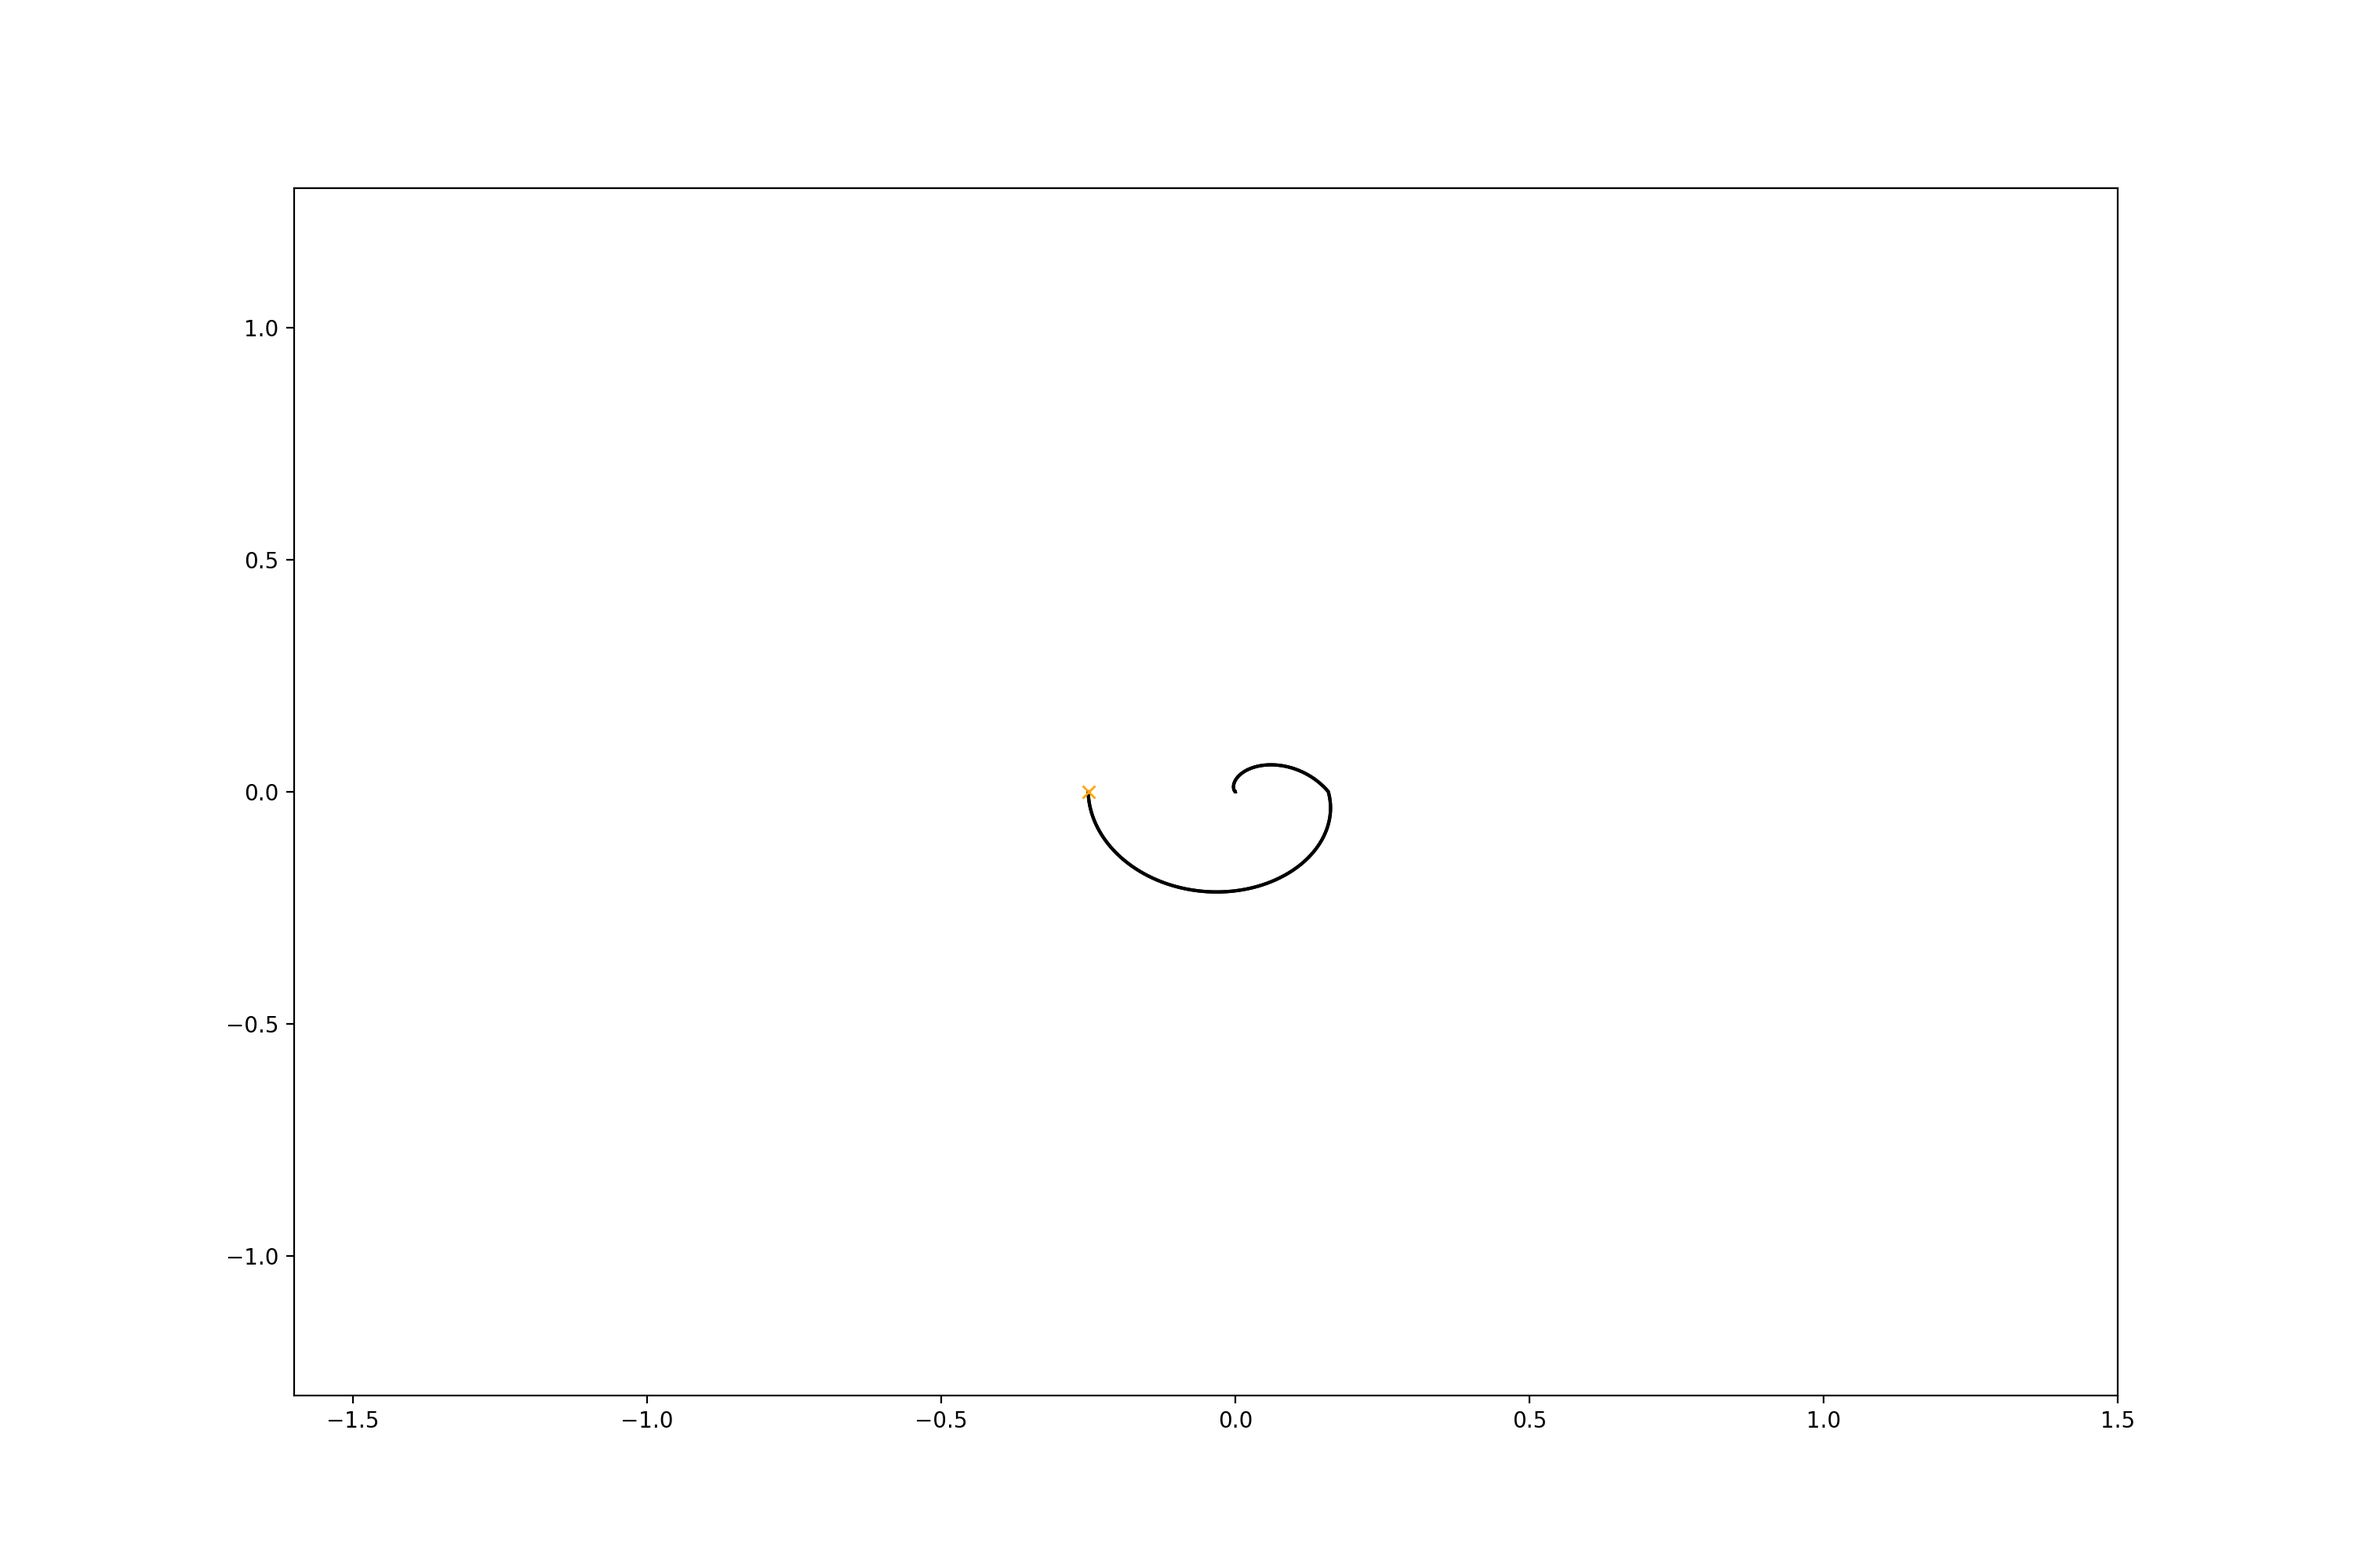
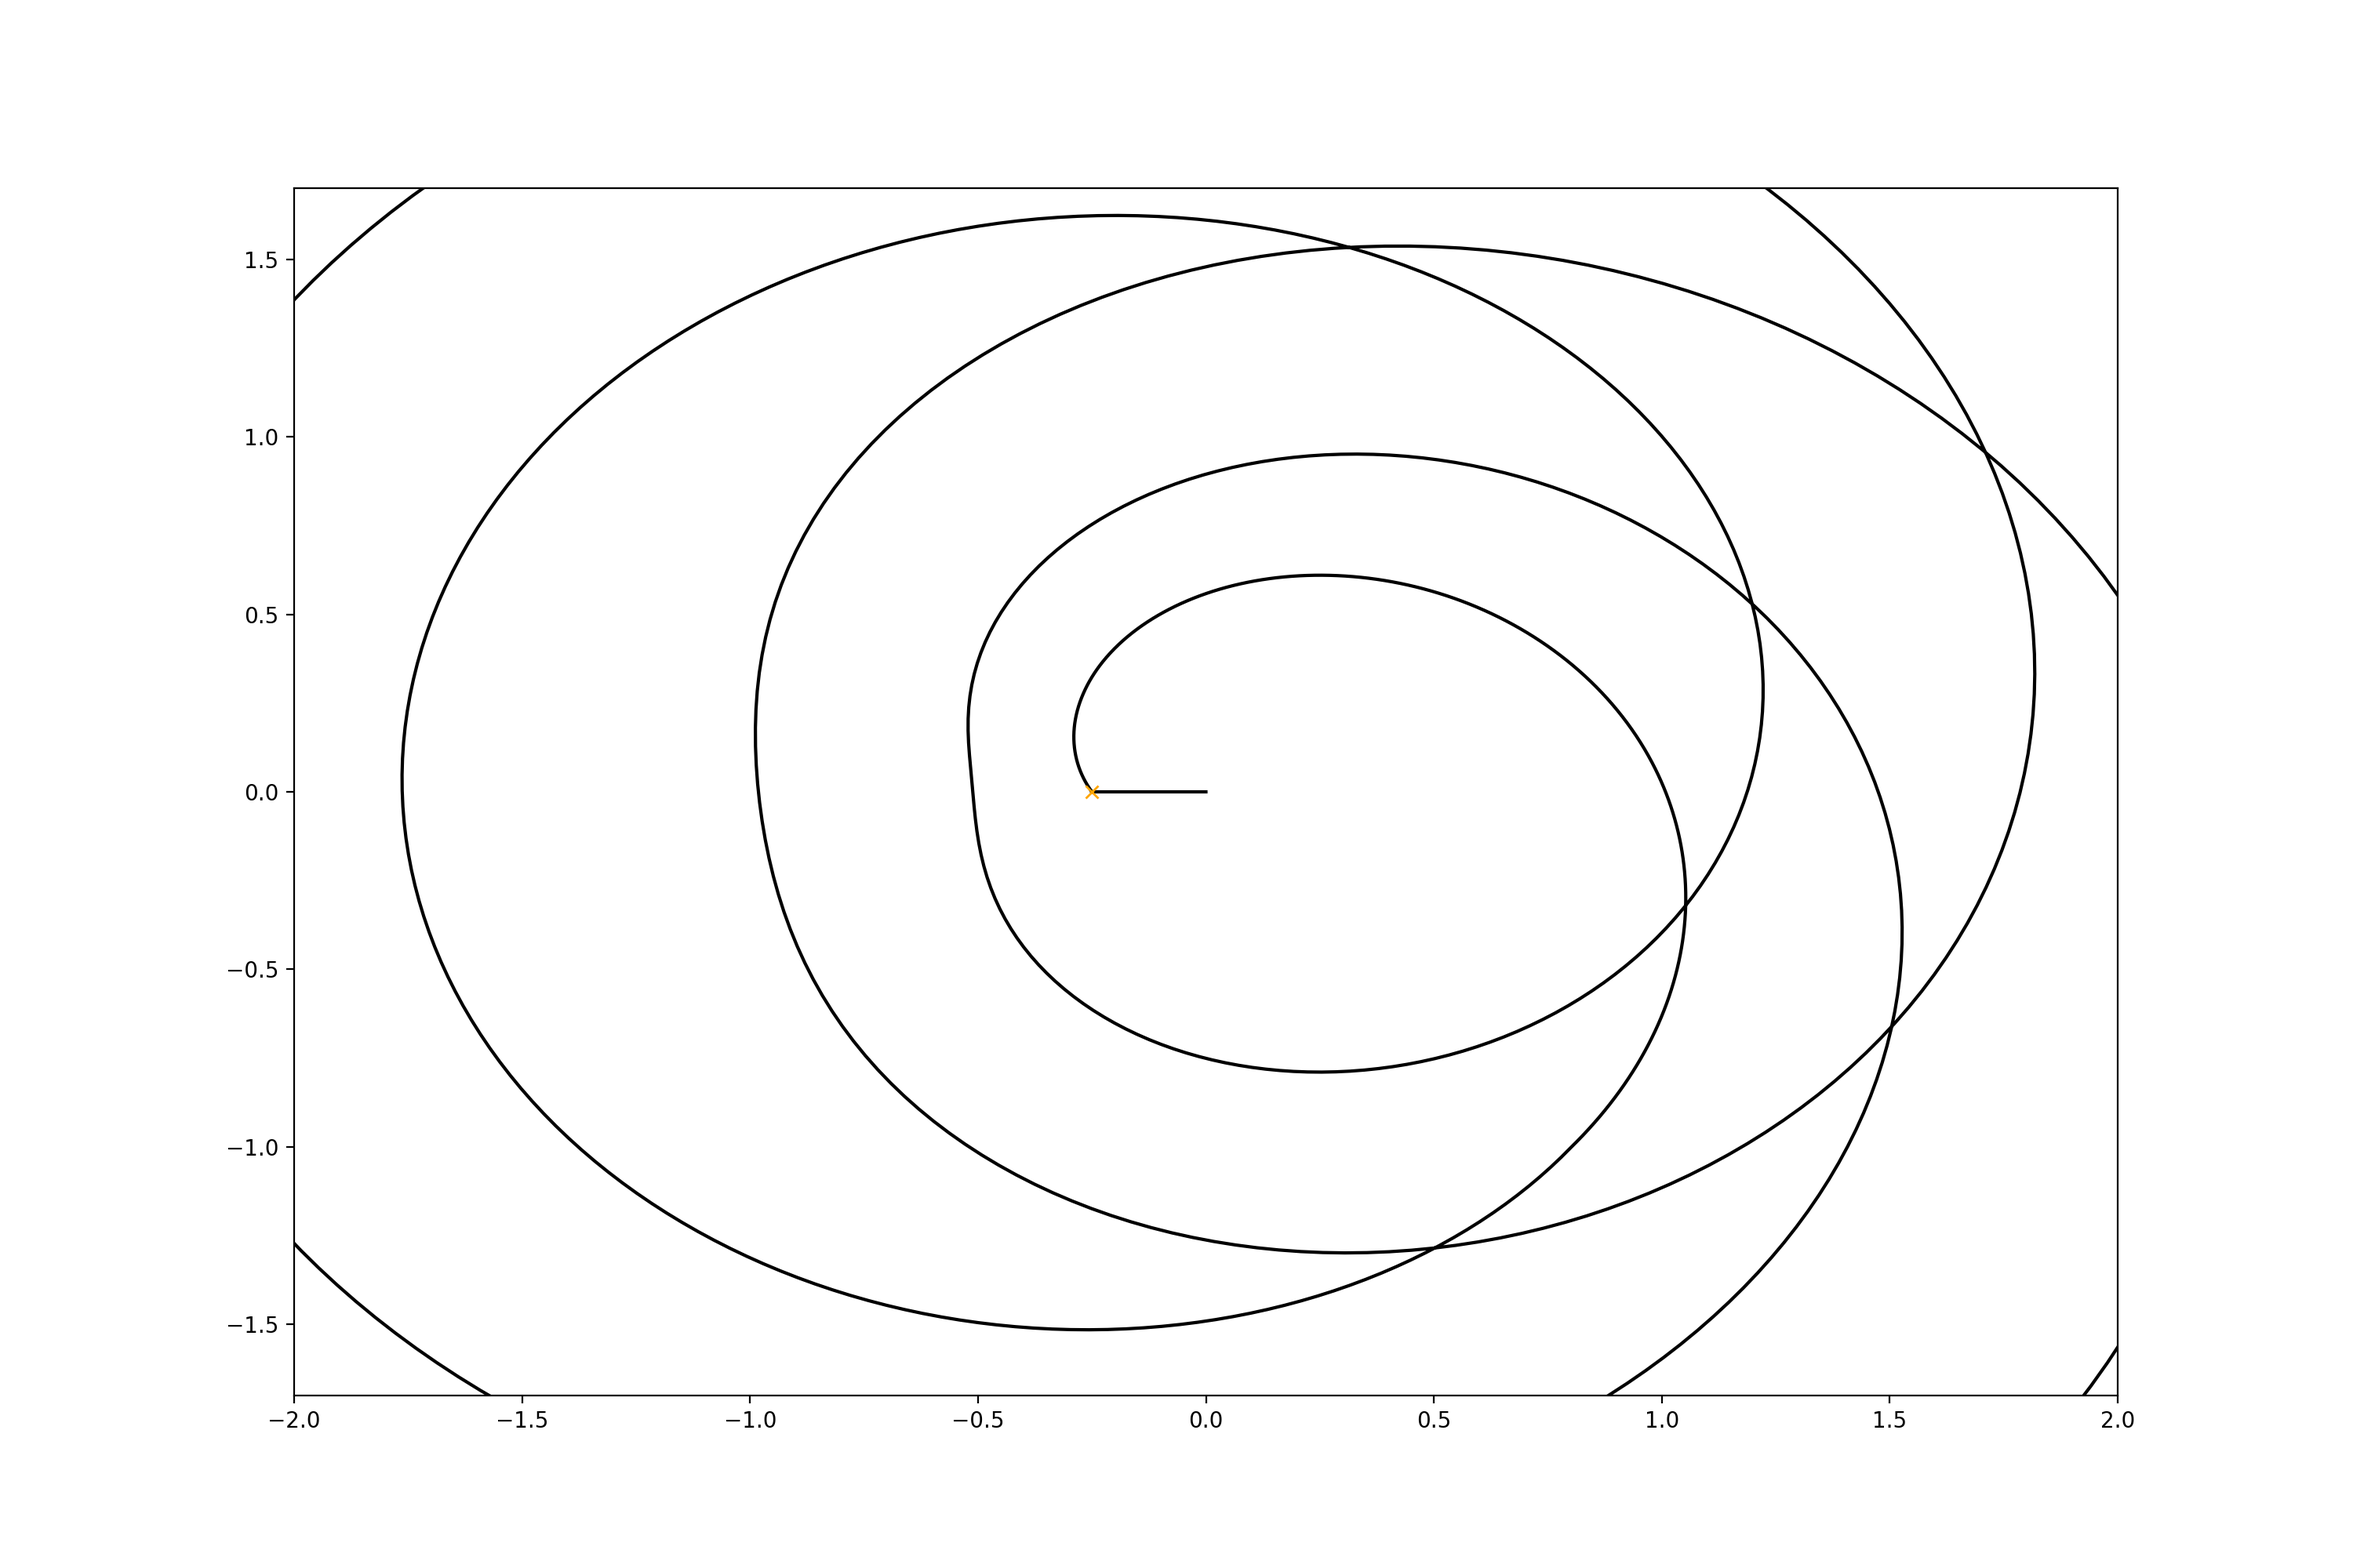
Exponential networks with moebius transformed plot

diff --git a/src/network.py b/src/network.py
@@ -1,5 +1,6 @@
 import sw_curve as sw
 import diffeq as dq
+import moebius as mb
 
 # Python libraries
 import numpy as np
@@ -28,9 +29,8 @@ class network():
                               for j in range(len(self.curve.branch_points))]
                              for i in range(self.steps)])
 
-    def start_paths(self):
+    def start_paths(self, n=0):
         for j in range(len(self.curve.branch_points)):
-            print(self.curve.branch_points)
             rts_dict = sym.roots(
                 (self.curve.d_y*self.curve.H_sym).subs(
                     self.curve.x_sym, self.curve.branch_points[j]))
@@ -44,10 +44,9 @@ class network():
                        ([rts[i] - rts[u] for u in range(i + 1, len(rts))])
                        ) < 0.0001:
                     for k in range(3):
-                        self.y_i[0, j, k] = rts[i]
-                        self.y_j[0, j, k] = rts[i]
+                        self.y_i[0, j, k] = complex(rts[i])
+                        self.y_j[0, j, k] = complex(rts[i])
                     break
-            print(rts)
             for k in range(3):
                 self.x[0, j, k] = self.curve.branch_points[j]
 
@@ -55,26 +54,46 @@ class network():
             kappa = -1 / 2 * self.curve.d2Hy2(
                 self.curve.branch_points[j], self.y_i[0, j, k]) / \
                 self.curve.dHx(self.x[0, j, k], self.y_i[0, j, k])
-            print(kappa)
-            dx = ((3 / 4 * np.sqrt(kappa)
-                   * self.x[0, j, k] * np.exp(1j * self.theta
-                                              ) * self.dt)**2)**(1 / 3)
+            if self.expo:
+                dx = ((3 / 4 * np.sqrt(kappa) * self.y_i[0, j, k] *
+                       self.x[0, j, k] *
+                       np.exp(1j * self.theta) * self.dt)**2)**(1 / 3)
+            else:
+                dx = ((3 / 4 * np.sqrt(kappa) * self.x[0, j, k]
+                       * np.exp(1j * self.theta) * self.dt)**2)**(1 / 3)
 
             for k in range(3):
                 dx_k = dx*np.exp(2 * np.pi * k * 1j / 3)
                 self.x[1, j, k] = self.x[0, j, k] + dx_k
-                self.y_i[1, j, k] = self.y_i[0, j, k] \
-                    + np.sqrt(dx_k) / np.sqrt(kappa)
-                self.y_j[1, j, k] = self.y_j[0, j, k] \
-                    - np.sqrt(dx_k) / np.sqrt(kappa)
+                if self.expo:
+                    self.y_i[0, j, k] = np.log(self.y_i[0, j, k])
+                    self.y_j[0, j, k] = self.y_i[0, j, k]
+                    self.y_i[1, j, k] = self.y_i[0, j, k] \
+                        + ((3 / 4 * np.sqrt(kappa) * self.x[0, j, k]
+                            * np.exp(1j * self.theta) * self.dt))**(1 / 3)\
+                        * np.exp(2 * np.pi * k * 1j / 3) / np.sqrt(kappa)
+                    self.y_j[1, j, k] = self.y_i[0, j, k] \
+                        - ((3 / 4 * np.sqrt(kappa) * self.x[0, j, k]
+                            * np.exp(1j * self.theta) * self.dt))**(1 / 3)\
+                        * np.exp(2 * np.pi * k * 1j / 3) / np.sqrt(kappa)
+
+                else:
+                    self.y_i[1, j, k] = self.y_i[1, j, k] \
+                        + np.sqrt(dx_k) / np.sqrt(kappa)
+                    self.y_j[1, j, k] = self.y_i[1, j, k] \
+                        - np.sqrt(dx_k) / np.sqrt(kappa)
+                if self.expo:
+                    pass  # print(self.y_j[1, j, k] - self.y_i[1, j, k])
 
     def plot_network(self,
-                     steps=0, paths=[], points=[], filename="Network.png"):
+                     steps=0, paths=[], points=[], fix_axis=True,
+                     filename="Network.png"):
         if steps == 0:
             steps = self.steps
         fig = plt.figure(figsize=(15, 10), dpi=200)
-        plt.xlim(-1.6, 1.5)
-        plt.ylim(-1.3, 1.3)
+        if fix_axis:
+            plt.xlim(-2, 2)
+            plt.ylim(-1.7, 1.7)
         if len(points) == 0:
             points = np.arange(len(self.curve.branch_points))
 
@@ -89,9 +108,22 @@ class network():
                  'x', color='orange')
         plt.plot(self.curve.sing_points.real, self.curve.sing_points.imag,
                  'b.')
-        fig.savefig("../graphics/" + filename, dpi=200)
+        fig.savefig("../graphics/" + filename + ".png", dpi=200)
+        if self.expo:
+            A = np.array([[1, 0], [-1, 1/4]])
+            fig2 = plt.figure(figsize=(15, 10), dpi=200)
+            for j in points:
+                for k in paths:
+                    x_tf = mb.moebius(A, self.x[:steps, j, k])
+                    plt.plot(x_tf.real, x_tf.imag, '-', color='black')
+            marks = np.array([-1 + 0j, 0 + 0j])
+            bp_tf = mb.moebius(A, self.curve.branch_points)
+            plt.plot(bp_tf.real, bp_tf.imag, 'x', color='orange')
+            plt.plot(marks.real, marks.imag, 'bo')
+            fig2.savefig("../graphics/" + filename + "_transformed.png",
+                         dpi=200)
 
-    def evolve(self, steps=0, n=0):
+    def evolve(self, steps=0):
         dt = self.dt
         if steps == 0:
             steps = self.steps
@@ -111,17 +143,45 @@ class network():
                     # dy = dq.rk4([x, y1, y2], self.dt, self.theta)
                     dy = dq.rk4(self.curve.sw_diiferential,
                                 [x, y1, y2], dt,
-                                self.theta, expo=self.expo, n=n)
+                                self.theta, expo=self.expo)
                     # self.curve.sw_diiferential([x, y1, y2], self.theta)*dt
                     if i == 2:
                         if (dy[0].real * (x - self.x[0, j, k]).real +
                                 dy[0].imag*(x - self.x[0, j, k]).imag) > 0:
                             signs[j, k] = 1
                         else:
-                            signs[j, k] = -1
+                            signs[j, k] = 1
+                    signs[0, 0] = -1
+                    signs[0, 2] = -1
                     self.x[i, j, k] = x + signs[j, k]*dy[0]
                     self.y_i[i, j, k] = y1 + signs[j, k] * dy[1]
                     self.y_j[i, j, k] = y2 + signs[j, k] * dy[2]
+                    # print(self.curve.H(5j, 5))
+                if i % 100 == 0:
+                    if i % 1000 == 0:
+                        print("Old", i,
+                              self.curve.H(
+                                  self.x[i, j, k], np.exp(self.y_i[i, j, k])))
+                    rts_dict = sym.roots(self.curve.H_sym.subs(
+                        self.curve.x_sym, self.x[i, j, k]))
+                    rts = []
+                    for rt in rts_dict:
+                        for whatever in range(rts_dict[rt]):
+                            rts.append(complex(rt))
+                    a = np.argmin([abs(rts[t] - np.exp(self.y_i[i, j, k]))
+                                   for t in range(len(rts))])
+                    b = np.argmin([abs(rts[t] - np.exp(self.y_j[i, j, k]))
+                                   for t in range(len(rts))])
+                    diff = self.y_j[i, j, k] - self.y_i[i, j, k]
+                    n_temp = int(diff.imag / 2 * np.pi)
+                    self.y_i[i, j, k] = np.log(rts[a])
+                    self.y_j[i, j, k] = np.log(rts[b]) + 2j * np.pi * n_temp
+                    # print(diff - (self.y_j[i, j, k] - self.y_i[i, j, k]))
+                    # print(self.y_i[i, j, k] - diff)
+                    if i % 1000 == 0:
+                        print("New", i,
+                              self.curve.H(
+                                  self.x[i, j, k], np.exp(self.y_i[i, j, k])))
             if i % 1000 == 0:
-                if dt <= 0.0001:
-                    dt = dt*100
+                if dt <= 0.01:
+                    dt = dt*10

diff --git a/src/sw_curve.py b/src/sw_curve.py
@@ -52,7 +52,8 @@ class sw_curve():
         self.branch_points, self.sing_points = self.branch_singular_points()
 
     def branch_singular_points(self):
-        disc_poly_sym = sym.Poly(self.H_sym*self.d_y, self.y_sym).discriminant()
+        disc_poly_sym = sym.Poly(
+            self.H_sym*self.d_y, self.y_sym).discriminant()
         n, d = sym.fraction(sym.together(disc_poly_sym))
         sing_sym = sym.solve(sym.Poly(d, self.x_sym))
         sing = np.array([sing_sym[i].evalf() for i in range(len(sing_sym))])
@@ -61,15 +62,21 @@ class sw_curve():
         branch = np.roots(branch_coeffs)
         return branch, sing
 
-    def sw_diiferential(self, pt, theta, expo=False, n=0):
+    def sw_diiferential(self, pt, theta, expo=False):
         x = pt[0]
         y1 = pt[1]
         y2 = pt[2]
         if not(expo):
             dx = x * np.exp(1j * theta) / (y2 - y1)
+            dy1 = -self.dHx(x, y1) / self.dHy(x, y1) * dx
+            dy2 = -self.dHx(x, y2) / self.dHy(x, y2) * dx
         else:
+            # print(y1, y2, x, theta)
             dx = x * np.exp(1j * theta) / \
-                (np.log(y2) - np.log(y1) + 2 * np.pi * 1j)
-        dy1 = -self.dHx(x, y1) / self.dHy(x, y1) * dx
-        dy2 = -self.dHx(x, y2) / self.dHy(x, y2) * dx
+                (y2 - y1)
+            # print(dx)
+            dy1 = -self.dHx(x, np.exp(y1)) / \
+                self.dHy(x, np.exp(y1)) * dx / np.exp(y1)
+            dy2 = -self.dHx(x, np.exp(y2)) / \
+                self.dHy(x, np.exp(y2)) * dx / np.exp(y2)
         return np.array([dx, dy1, dy2])

diff --git a/src/main.py b/src/main.py
@@ -5,14 +5,23 @@ import numpy as np
 
 
 def main():
-    # network = sn.network(lambda z: sw.phi(z), 1e-6, 5000, np.pi / 4, comp=True)
+    # network = sn.network(
+    #     lambda z: sw.phi(z), 1e-6, 5000, np.pi / 4, comp=True)
     # network.start_paths()
     # network.evolve()
     # network.plot_network()
-    expo_net = sn.network(sw.H_c3, 1e-8, 13000, 0*np.pi, expo=True)
+    steps = 10000
+    expo_net = sn.network(sw.H_c3, 1e-10, steps, 0 * np.pi / 4, expo=True)
     expo_net.start_paths()
     expo_net.evolve()
-    expo_net.plot_network(paths=[0,2], filename="expo_net.png")
+    expo_net.plot_network(
+        paths=[], fix_axis=True, filename="expo_net")
+    expo_net.plot_network(
+        paths=[0], fix_axis=True, filename="expo_net0")
+    expo_net.plot_network(
+        paths=[1], fix_axis=True, filename="expo_net1")
+    expo_net.plot_network(
+        paths=[2], fix_axis=True, filename="expo_net2")
 
 
 if __name__ == '__main__':

diff --git a/src/diffeq.py b/src/diffeq.py
@@ -5,9 +5,9 @@ def fwd_euler(f, y, dt, theta):
     return dt*f(y, theta)
 
 
-def rk4(f, y, dt, theta, expo, n):
-    k1 = f(y, theta, expo, n)
-    k2 = f(y + dt * k1 / 2, theta, expo, n)
-    k3 = f(y + dt * k2 / 2, theta, expo, n)
-    k4 = f(y + dt * k3, theta, expo, n)
+def rk4(f, y, dt, theta, expo):
+    k1 = f(y, theta, expo)
+    k2 = f(y + dt * k1 / 2, theta, expo)
+    k3 = f(y + dt * k2 / 2, theta, expo)
+    k4 = f(y + dt * k3, theta, expo)
     return 1 / 6 * dt * (k1 + 2 * k2 + 2 * k3 + k4)

diff --git a/src/moebius.py b/src/moebius.py
@@ -1,0 +1,2 @@
+def moebius(A, z):
+    return (A[0, 0] * z + A[0, 1]) / (A[1, 0] * z + A[1, 1])
